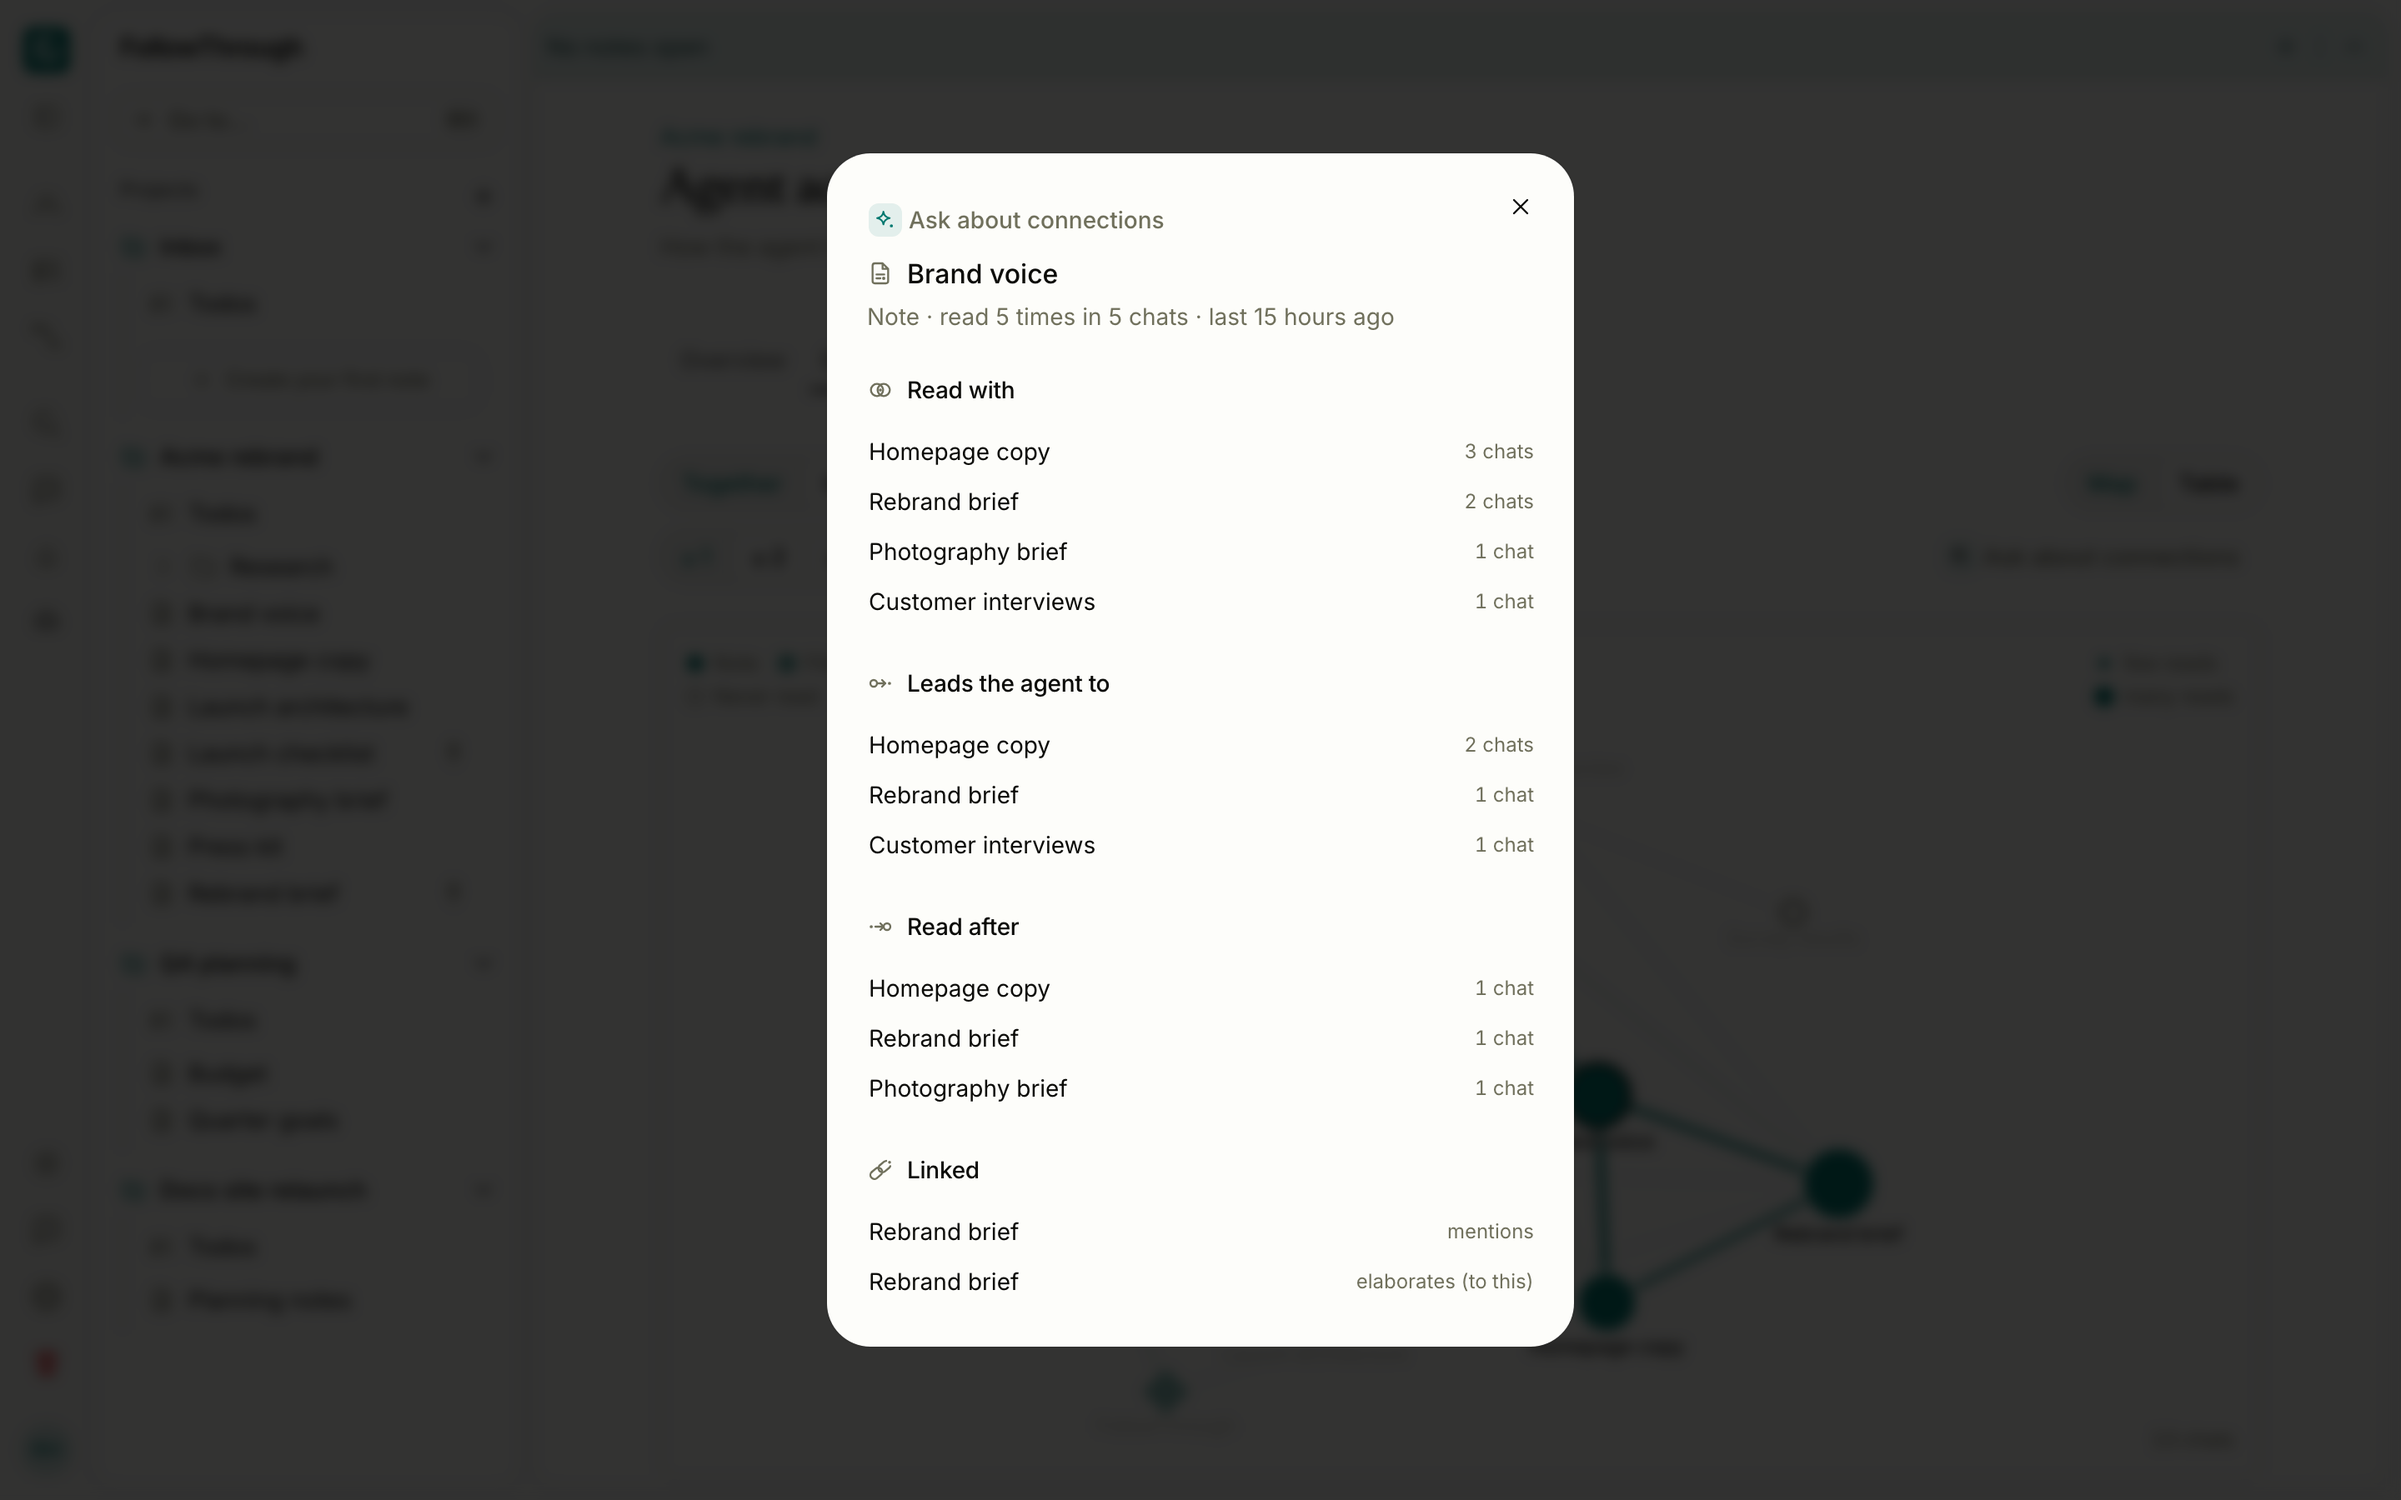
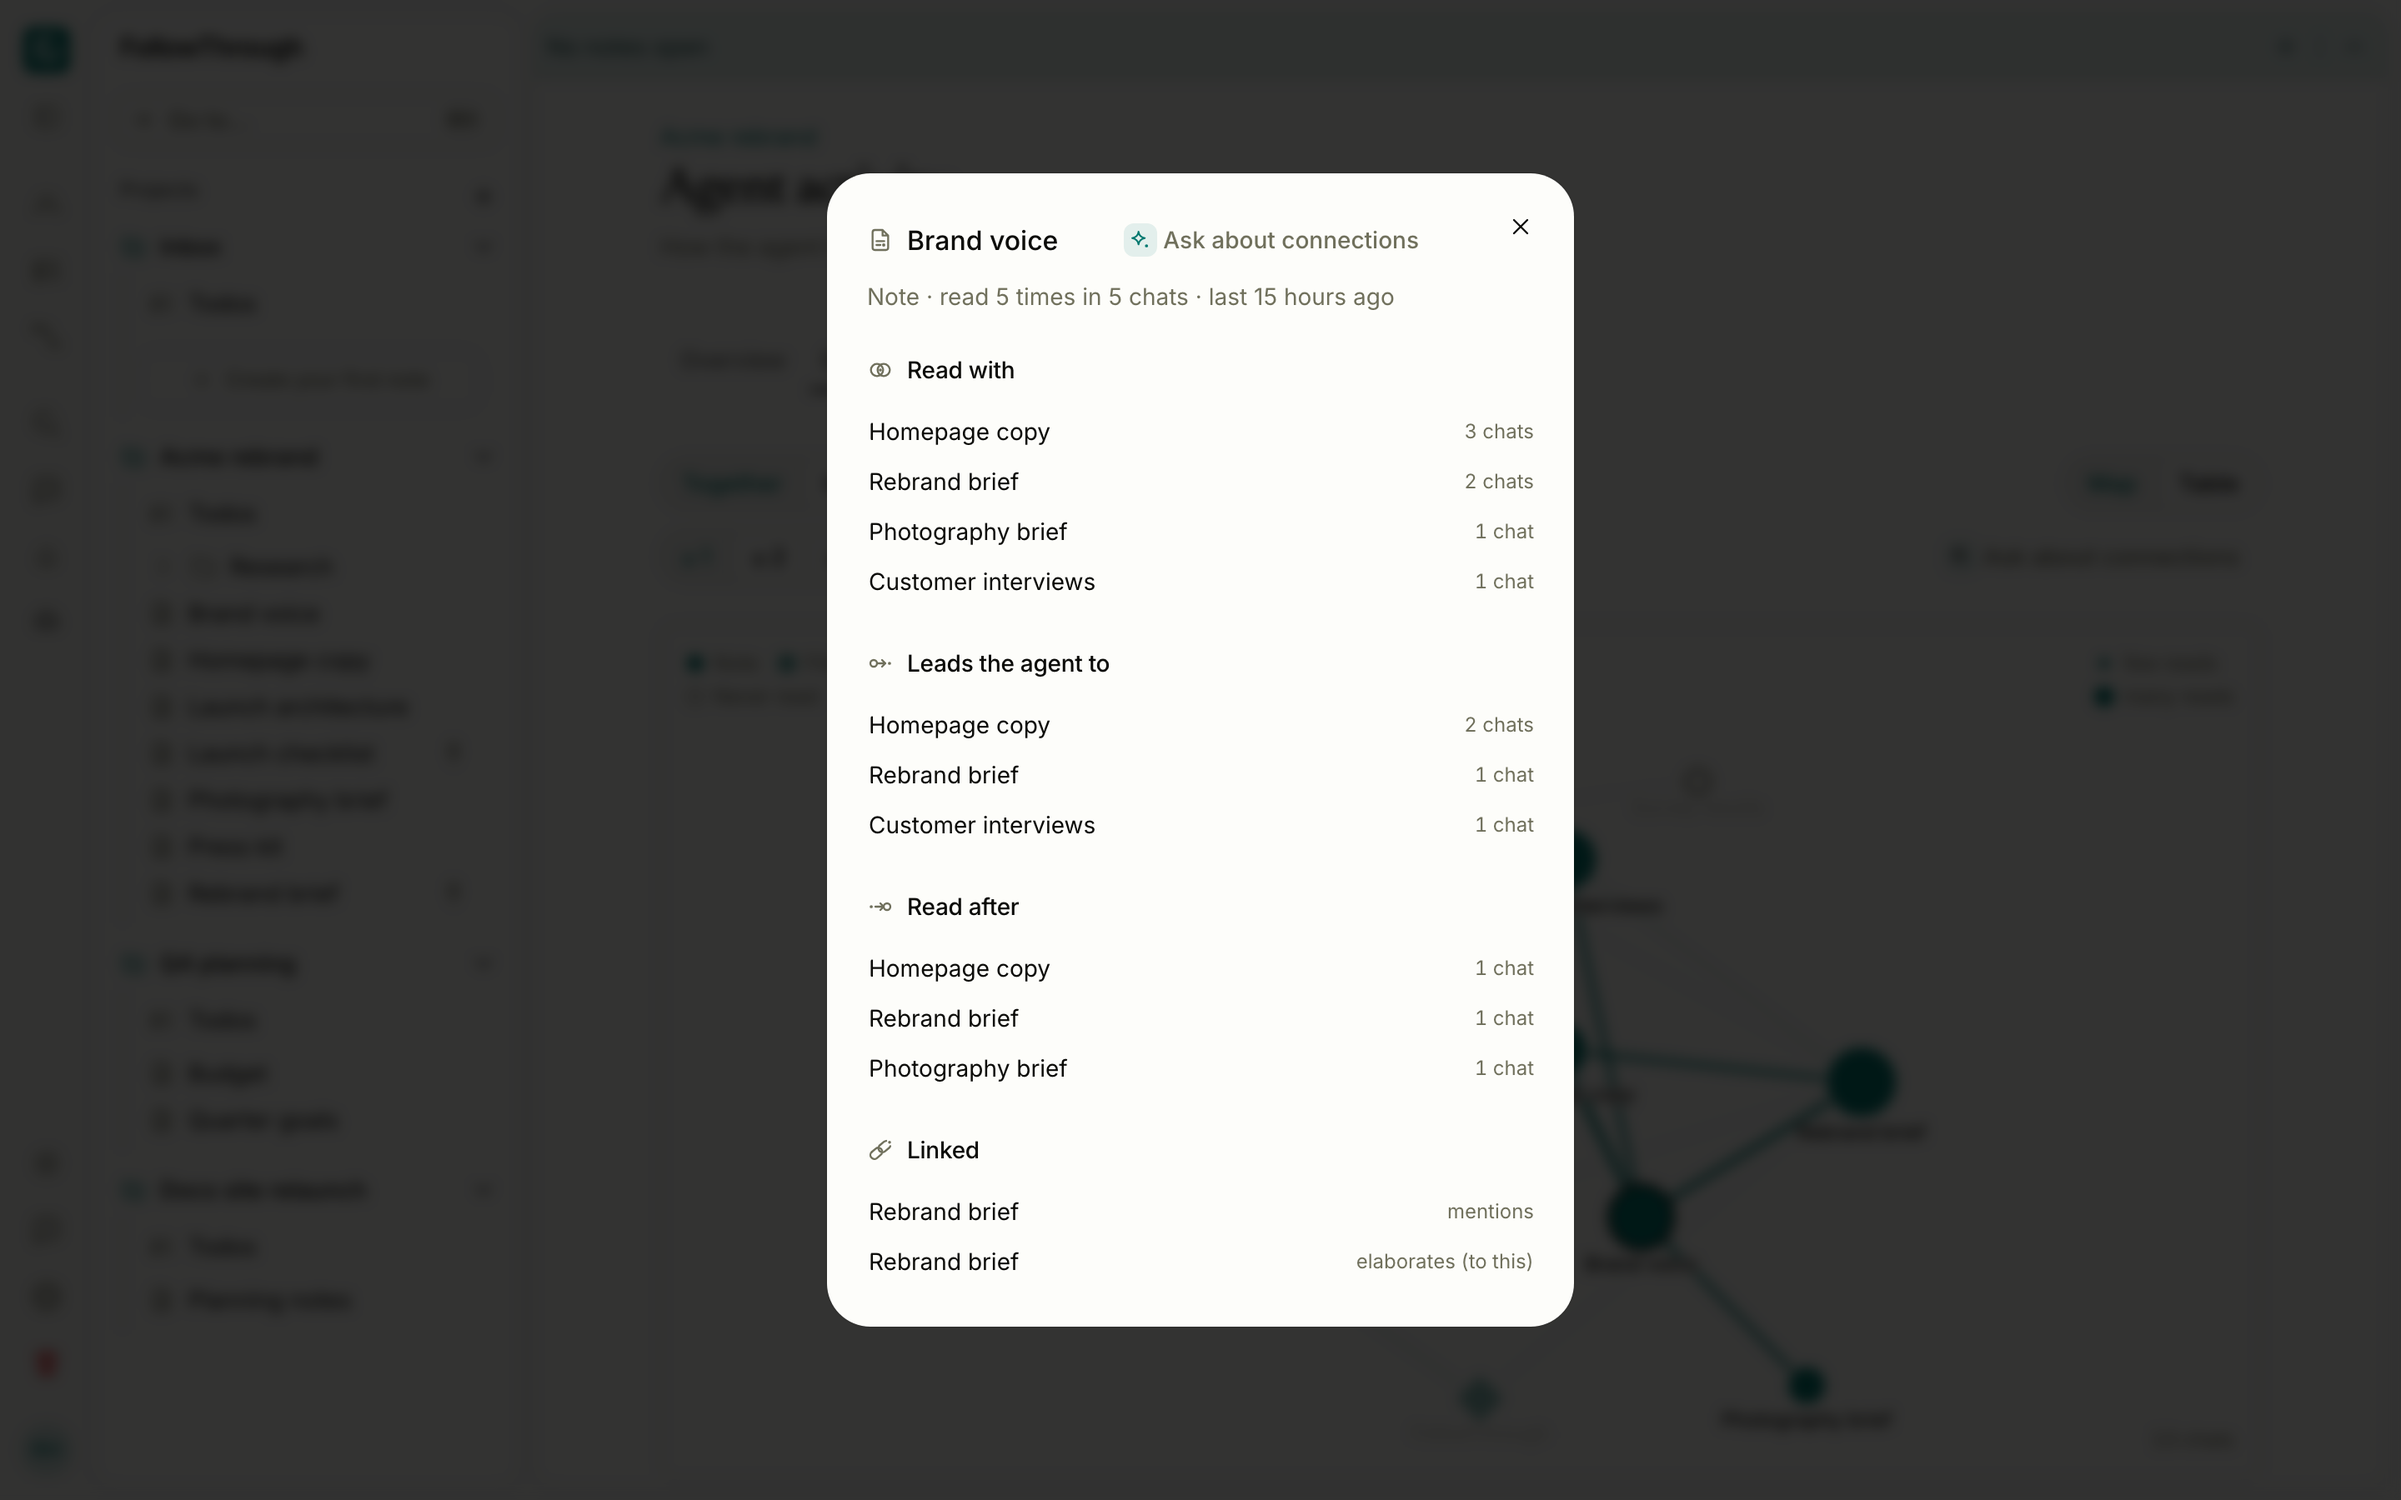
fix(context-usage): put ask about connections on the dialog title's row

diff --git a/src/lib/components/projects/context-usage/connections/connections-item-dialog.svelte b/src/lib/components/projects/context-usage/connections/connections-item-dialog.svelte
@@ -102,11 +102,11 @@
 <Dialog.Root bind:open>
 	<Dialog.Content class="flex max-h-dvh flex-col gap-group overflow-y-auto sm:max-w-md">
 		<Dialog.Header>
-			<!-- The action leads, as on a note: what you can do with the item, then what it is. -->
-			<div class="-ml-1.5 flex">
+			<!-- The item and what you can ask about it share a row, as on a note's header. -->
+			<div class="flex min-w-0 items-center justify-between gap-2">
+				<Dialog.Title class="min-w-0"><ItemLink item={selected.item} {projectId} /></Dialog.Title>
 				<ConnectionsAsk {report} {projectId} {projectName} {selected} {onask} />
 			</div>
-			<Dialog.Title class="min-w-0"><ItemLink item={selected.item} {projectId} /></Dialog.Title>
 			<Dialog.Description>
 				{kindNoun[selected.item.kind][0]} ·
 				{selected.use.kind === 'never'
